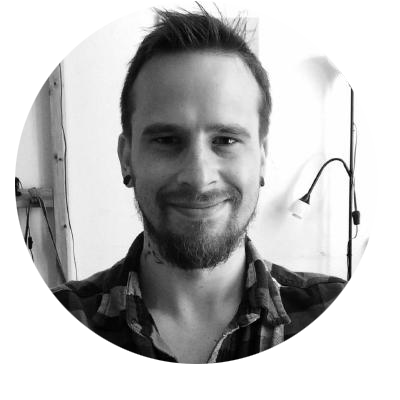
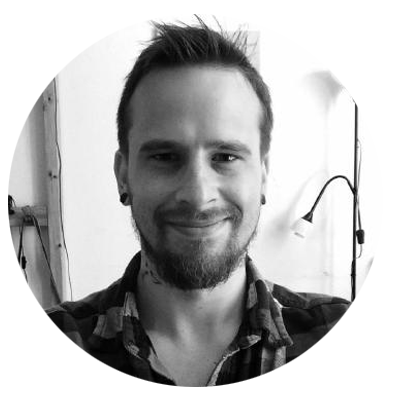
nasze mordy fixed

diff --git a/main.css b/main.css
@@ -192,21 +192,48 @@ footer{
 
 }
 
-.mordy {
-    width: 100%;
-    height: 200px;
-    background-color: #444;
+#mordy {
     display: flex;
+    width: 100%;
+    height: 70vh;
+    background-color: #ffffff;
     justify-content: space-around;
     align-items: center;
-    padding: 30px;
-
 }
 
-.mordy img {
-    width: 200px;
-    height: 200px;
-    border: 3px solid white;
+#mordy figure {
+    display: flex;
+    justify-content: space-between;
+    align-items: center;
+    flex-direction: column;
+}
+
+#mordy img {
+    width: 50%;
+    height: 50%;
+}
+
+.mordy img:hover {
+    /*animacja naszych mord*/
+}
+
+#mordy figcaption {
+    padding: 15px 15px 0 15px;
+    font-size: 1.5rem;
+}
+
+figcaption:after {
+    content: '';
+    display: block;
+    margin: auto; /* when turn off and border goes from left to right*/
+    height: 1px;
+    width: 0px;
+    transition: width .7s ease, background-color .7s ease;
+}
+
+figcaption:hover:after {
+    width: 100%;
+    background: red;
 }
 
 .navbar-default .navbar-nav>li>a {

diff --git a/index.html b/index.html
@@ -130,7 +130,7 @@
         <div class="backToTopButton">
             <a href="#main">BACK TO TOP</a>
         </div>
-        <div class="footer">Wixer.com made by Team Deverest &copy; 2017 All rights reserved</div>
+        <div class="footer">Wixer.com made by Team Deverest &copy; 2017 All rights reserved.</div>
         <div class="icons">
             <a href="http://www.facebook.pl"><img src="pictures/fb.png"/></a>
             <a href="http://www.twitter.com"><img src="pictures/twitter.png"/></a>
